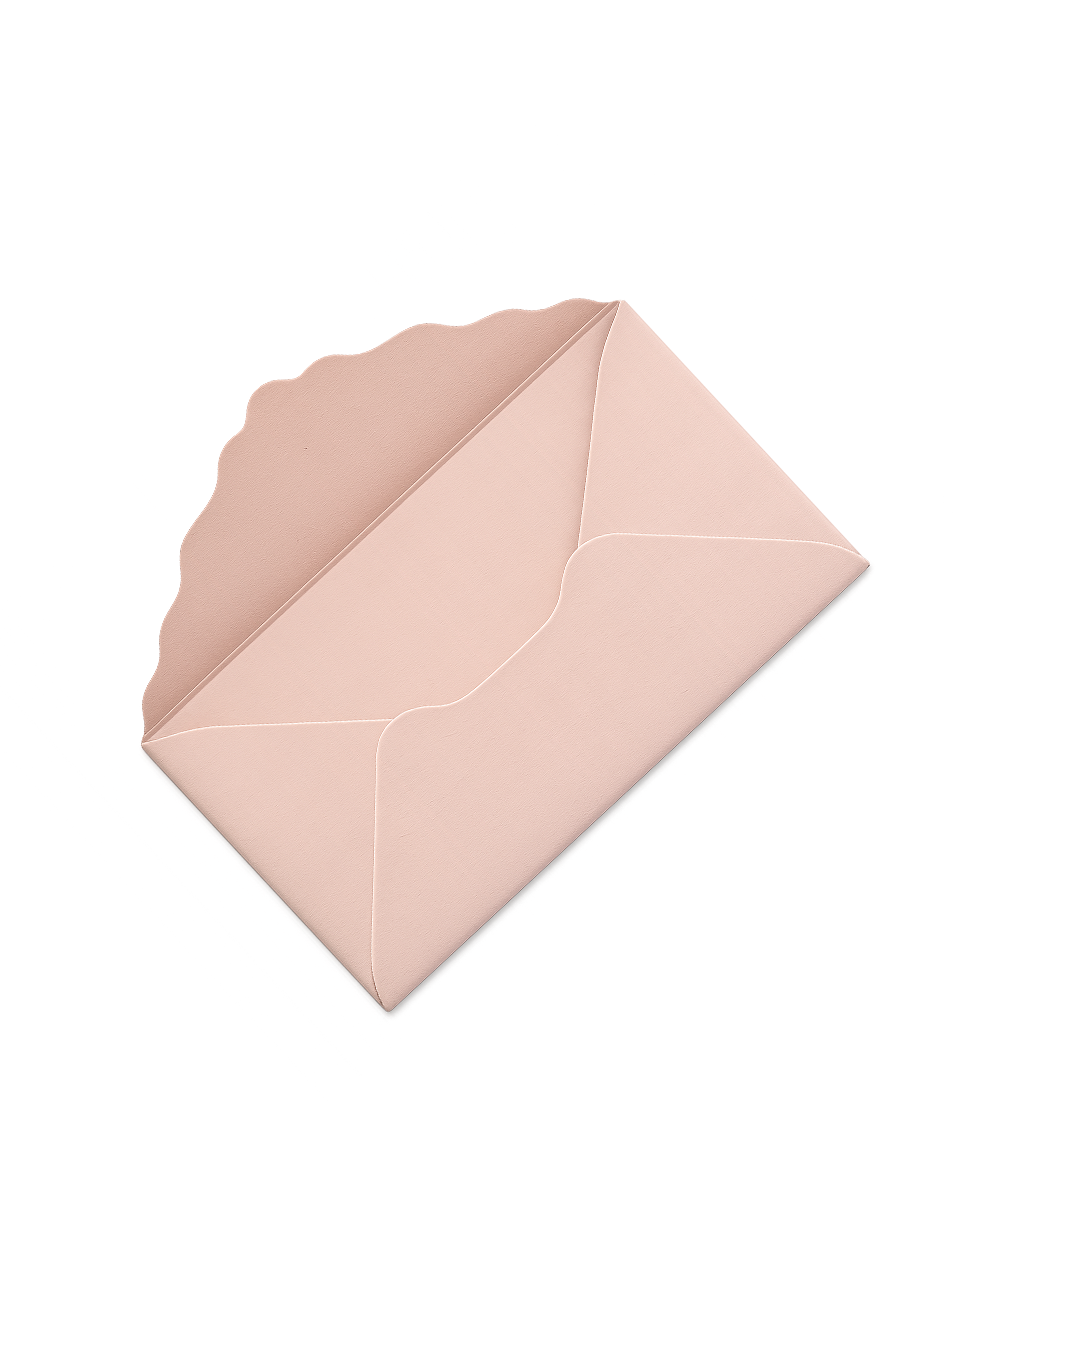
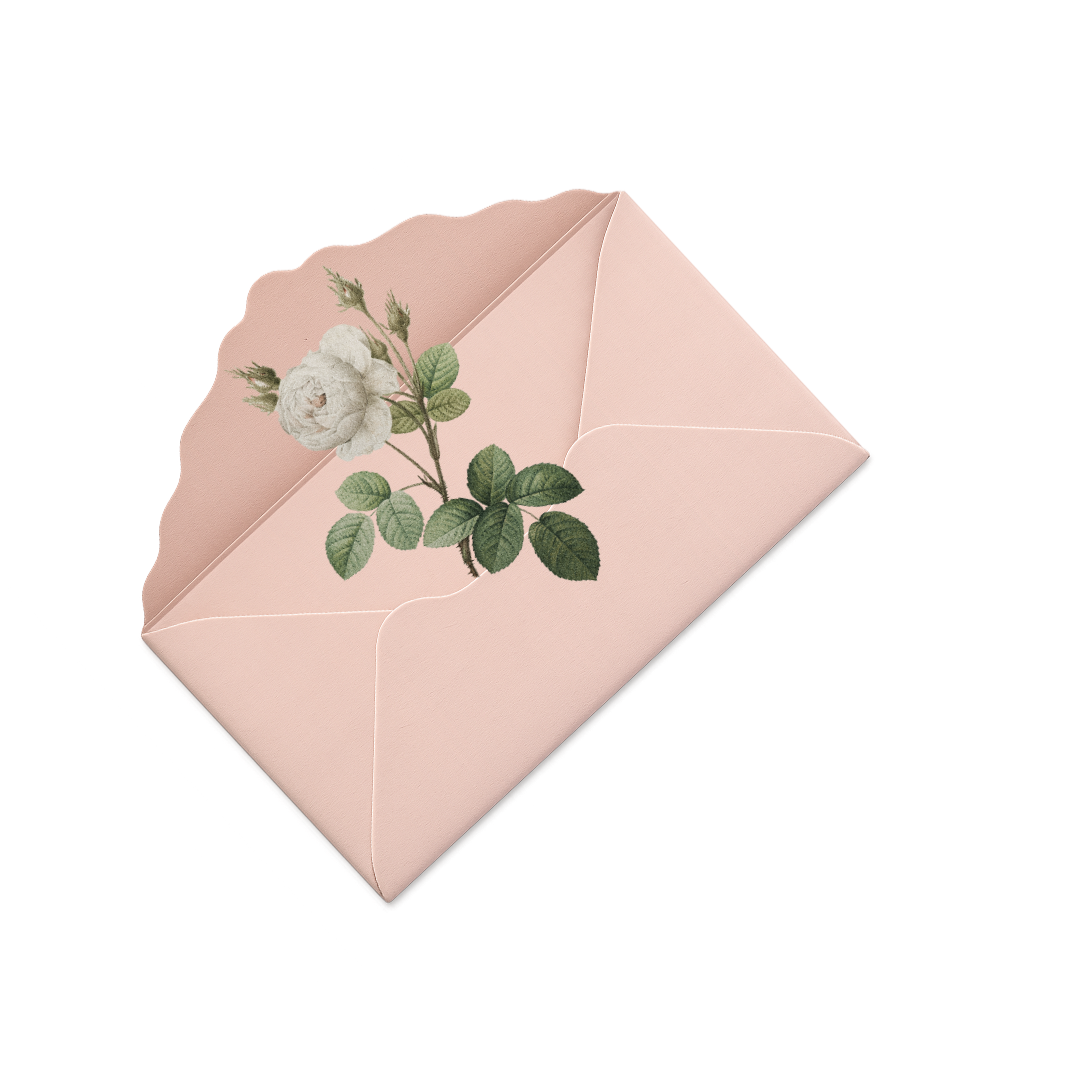
add invite page

diff --git a/app/invite/page.tsx b/app/invite/page.tsx
@@ -1,0 +1,157 @@
+'use client'
+
+import Image from 'next/image'
+import { motion } from 'framer-motion'
+
+export default function InvitePage() {
+  return (
+    <main className="min-h-svh flex items-center justify-center px-4 py-8 text-center text-black">
+      <div className="flex flex-col items-center w-full max-w-[700px] mt-12 md:mt-20">
+        {/* Envelope with invite on top */}
+        <div className="relative w-[60vw] md:w-[70vw] max-w-[600px]">
+          <motion.div
+            initial={{ opacity: 0, x: 80 }}
+            animate={{ opacity: 1, x: 0 }}
+            transition={{ duration: 1, delay: 1.5, ease: 'easeOut' }}
+            className="absolute left-[69%] -translate-x-1/2 -top-[35%] w-[100%] z-10"
+          >
+            <Image
+              src="/assets/images/png invite.png"
+              alt="Invite"
+              width={800}
+              height={800}
+              className="w-full h-auto"
+            />
+          </motion.div>
+          <motion.div
+            initial={{ opacity: 0, y: 30 }}
+            animate={{ opacity: 1, y: 0 }}
+            transition={{ duration: 1, delay: 0, ease: 'easeOut' }}
+            className="relative left-[-10%]"
+          >
+            <motion.div
+              initial={{ opacity: 0, y: 40 }}
+              animate={{ opacity: 1, y: 0 }}
+              transition={{ duration: 1, delay: 2.5, ease: 'easeOut' }}
+              className="absolute left-[20%] top-[14%] -translate-y-1/2 w-[35%] z-10 pointer-events-none"
+            >
+              <Image
+                src="/assets/images/cupid_1.webp"
+                alt="Cupid"
+                width={300}
+                height={300}
+                className="w-full h-auto"
+              />
+            </motion.div>
+            <Image
+              src="/assets/images/open.png"
+              alt="Open envelope"
+              width={800}
+              height={800}
+              className="w-full h-auto"
+            />
+          </motion.div>
+        </div>
+
+        {/* Row 2 - scattered elements */}
+        <div className="relative w-full -mt-36 md:-mt-72" style={{ height: '70vw', maxHeight: '600px' }}>
+          {/* 1. decoration_2 */}
+          <motion.div
+            initial={{ opacity: 0, y: 20 }}
+            animate={{ opacity: 1, y: 0 }}
+            transition={{ duration: 0.8, delay: 3, ease: 'easeOut' }}
+            className="absolute left-[2%] md:left-[5%] top-[25%] md:top-[20%] w-[15%] md:w-[20%] z-30"
+          >
+            <Image
+              src="/assets/images/decoration_2.png"
+              alt="Decoration"
+              width={300}
+              height={300}
+              className="w-full h-auto"
+            />
+          </motion.div>
+
+          {/* 2. heart (Details) */}
+          <motion.div
+            initial={{ opacity: 0, scale: 0.9 }}
+            animate={{ opacity: 1, scale: 1 }}
+            transition={{ duration: 1, delay: 3.5, ease: 'easeOut' }}
+            className="absolute left-[-8%] md:left-[-10%] top-[5%] w-[70%] md:w-[85%] z-40"
+          >
+            <Image
+              src="/assets/images/heart.png"
+              alt="Details heart"
+              width={600}
+              height={600}
+              className="w-full h-auto"
+            />
+          </motion.div>
+
+          {/* 3. cupid_2 */}
+          <motion.div
+            initial={{ opacity: 0, y: 20 }}
+            animate={{ opacity: 1, y: 0 }}
+            transition={{ duration: 0.8, delay: 4, ease: 'easeOut' }}
+            className="absolute right-[10%] md:right-[20%] top-[30%] md:top-[10%] w-[18%] md:w-[22%] z-30"
+          >
+            <Image
+              src="/assets/images/cupid_2.webp"
+              alt="Cupid"
+              width={300}
+              height={300}
+              className="w-full h-auto"
+            />
+          </motion.div>
+
+          {/* 4. dining_element_2 */}
+          <motion.div
+            initial={{ opacity: 0, y: 20 }}
+            animate={{ opacity: 1, y: 0 }}
+            transition={{ duration: 0.8, delay: 4.5, ease: 'easeOut' }}
+            className="absolute right-[5%] md:right-[12%] top-[45%] md:top-[30%] w-[12%] md:w-[15%] z-30 rotate-[10deg]"
+          >
+            <Image
+              src="/assets/images/dining_element_2.png"
+              alt="Dining element"
+              width={400}
+              height={400}
+              className="w-full h-auto"
+            />
+          </motion.div>
+
+          {/* 5. decoration_1 */}
+          <motion.div
+            initial={{ opacity: 0, y: 20 }}
+            animate={{ opacity: 1, y: 0 }}
+            transition={{ duration: 0.8, delay: 5, ease: 'easeOut' }}
+            className="absolute left-[65%] md:left-[70%] top-[55%] md:top-[60%] w-[8%] md:w-[10%] z-30"
+          >
+            <Image
+              src="/assets/images/decoration_1.png"
+              alt="Decoration"
+              width={300}
+              height={300}
+              className="w-full h-auto"
+            />
+          </motion.div>
+
+          {/* 6. dining_1 */}
+          <motion.div
+            initial={{ opacity: 0, y: 20 }}
+            animate={{ opacity: 1, y: 0 }}
+            transition={{ duration: 0.8, delay: 5.5, ease: 'easeOut' }}
+            className="absolute right-[8%] md:right-[15%] top-[65%] md:top-[75%] w-[12%] md:w-[15%] z-30"
+          >
+            <Image
+              src="/assets/images/dining_1.webp"
+              alt="Dining"
+              width={300}
+              height={300}
+              className="w-full h-auto"
+            />
+          </motion.div>
+        </div>
+      </div>
+    </main>
+  )
+}

diff --git a/app/page.tsx b/app/page.tsx
@@ -1,15 +1,40 @@
 'use client'
 
 import Image from 'next/image'
-import { motion } from 'framer-motion'
+import { useState } from 'react'
+import { useRouter } from 'next/navigation'
+import { motion, AnimatePresence } from 'framer-motion'
 
 export default function LandingPage() {
+  const [isOpening, setIsOpening] = useState(false)
+  const router = useRouter()
+
+  const handleEnvelopeClick = () => {
+    if (isOpening) return
+    setIsOpening(true)
+    setTimeout(() => {
+      router.push('/invite')
+    }, 2000)
+  }
+
   return (
-    <main className="min-h-dvh flex flex-col items-center justify-center px-4 md:px-6 py-8 text-center text-black">
+    <main className="min-h-svh flex flex-col items-center justify-center px-4 md:px-6 py-12 text-center text-black relative">
+      {/* Fade overlay */}
+      <AnimatePresence>
+        {isOpening && (
+          <motion.div
+            initial={{ opacity: 0 }}
+            animate={{ opacity: 1 }}
+            transition={{ duration: 0.8, delay: 1.2 }}
+            className="fixed inset-0 bg-[#e5e3d9] z-50"
+          />
+        )}
+      </AnimatePresence>
+
       <motion.p
         initial={{ opacity: 0, y: -20 }}
-        animate={{ opacity: 1, y: 0 }}
-        transition={{ duration: 1, ease: 'easeOut' }}
+        animate={isOpening ? { opacity: 0, y: -30 } : { opacity: 1, y: 0 }}
+        transition={{ duration: isOpening ? 0.6 : 1, ease: 'easeOut' }}
         className="text-[10px] md:text-xl tracking-[0.2em] md:tracking-[0.3em] uppercase mb-3 md:mb-5 max-w-[90vw]"
         style={{ fontFamily: 'Montserrat, sans-serif', fontWeight: 500 }}
       >
@@ -19,8 +44,8 @@ export default function LandingPage() {
       <div className="flex flex-col items-center gap-1 md:gap-2 w-full">
         <motion.p
           initial={{ opacity: 0 }}
-          animate={{ opacity: 1 }}
-          transition={{ duration: 0.8, delay: 0.8, ease: 'easeOut' }}
+          animate={isOpening ? { opacity: 0, y: -20 } : { opacity: 1 }}
+          transition={{ duration: isOpening ? 0.5 : 0.8, delay: isOpening ? 0 : 0.8, ease: 'easeOut' }}
           className="text-[8px] md:text-xs tracking-[0.2em] md:tracking-[0.3em] uppercase"
           style={{ fontFamily: 'Montserrat, sans-serif', fontWeight: 500 }}
         >
@@ -29,9 +54,9 @@ export default function LandingPage() {
 
         <motion.p
           initial={{ opacity: 0, scale: 0.9 }}
-          animate={{ opacity: 1, scale: 1 }}
-          transition={{ duration: 1, delay: 1.4, ease: 'easeOut' }}
-          className="text-5xl md:text-7xl pt-2"
+          animate={isOpening ? { opacity: 0, y: -20 } : { opacity: 1, scale: 1 }}
+          transition={{ duration: isOpening ? 0.5 : 1, delay: isOpening ? 0.1 : 1.4, ease: 'easeOut' }}
+          className="text-5xl md:text-7xl pt-4 overflow-visible"
           style={{ fontFamily: 'SymphonyPro, cursive' }}
         >
           Barbare & Levan
@@ -39,23 +64,34 @@ export default function LandingPage() {
 
         <motion.div
           initial={{ opacity: 0, y: 40 }}
-          animate={{ opacity: 1, y: 0 }}
-          transition={{ duration: 1.2, delay: 2.2, ease: 'easeOut' }}
-          className="relative w-[80vw] max-w-[600px]"
+          animate={isOpening
+            ? { opacity: 1, y: 0, scale: 1.1 }
+            : { opacity: 1, y: 0 }
+          }
+          transition={{ duration: isOpening ? 0.8 : 1.2, delay: isOpening ? 0 : 2.2, ease: 'easeOut' }}
+          className="relative w-[80vw] max-w-[600px] z-10"
         >
-          <Image
-            src="/assets/images/first.png"
-            alt="Envelope"
-            width={600}
-            height={600}
-            className="w-full h-auto"
-          />
+          <motion.div
+            whileHover={!isOpening ? { scale: 1.03, y: -5 } : {}}
+            whileTap={!isOpening ? { scale: 0.97 } : {}}
+            transition={{ type: 'spring', stiffness: 300, damping: 20 }}
+            className="cursor-pointer relative"
+            onClick={handleEnvelopeClick}
+          >
+            <Image
+              src="/assets/images/first.png"
+              alt="Envelope"
+              width={600}
+              height={600}
+              className="w-full h-auto"
+            />
+          </motion.div>
         </motion.div>
 
         <motion.p
           initial={{ opacity: 0 }}
-          animate={{ opacity: 1 }}
-          transition={{ duration: 0.8, delay: 3.2, ease: 'easeOut' }}
+          animate={isOpening ? { opacity: 0, y: 20 } : { opacity: 1 }}
+          transition={{ duration: isOpening ? 0.4 : 0.8, delay: isOpening ? 0 : 3.2, ease: 'easeOut' }}
           className="text-[8px] md:text-xs tracking-[0.2em] md:tracking-[0.3em] uppercase"
           style={{ fontFamily: 'Montserrat, sans-serif', fontWeight: 500 }}
         >
@@ -64,8 +100,8 @@ export default function LandingPage() {
 
         <motion.p
           initial={{ opacity: 0 }}
-          animate={{ opacity: 1 }}
-          transition={{ duration: 0.8, delay: 3.8, ease: 'easeOut' }}
+          animate={isOpening ? { opacity: 0, y: 20 } : { opacity: 1 }}
+          transition={{ duration: isOpening ? 0.4 : 0.8, delay: isOpening ? 0.1 : 3.8, ease: 'easeOut' }}
           className="text-lg md:text-2xl"
           style={{ fontFamily: 'SymphonyPro, cursive' }}
         >
